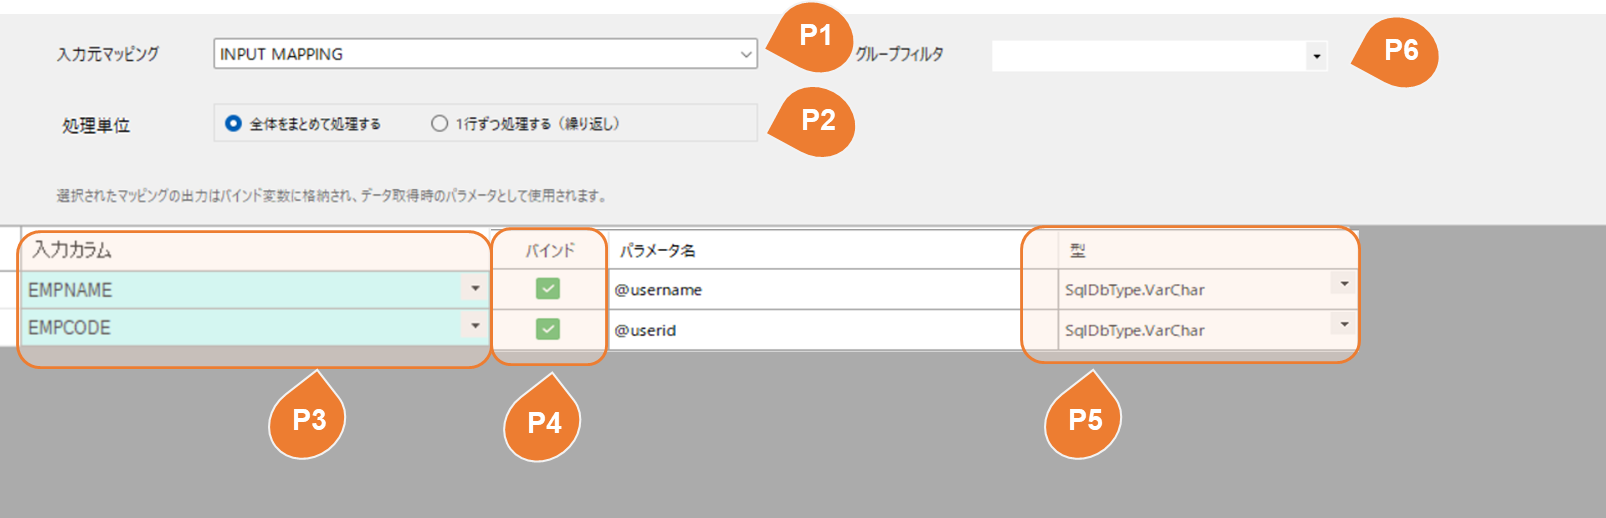
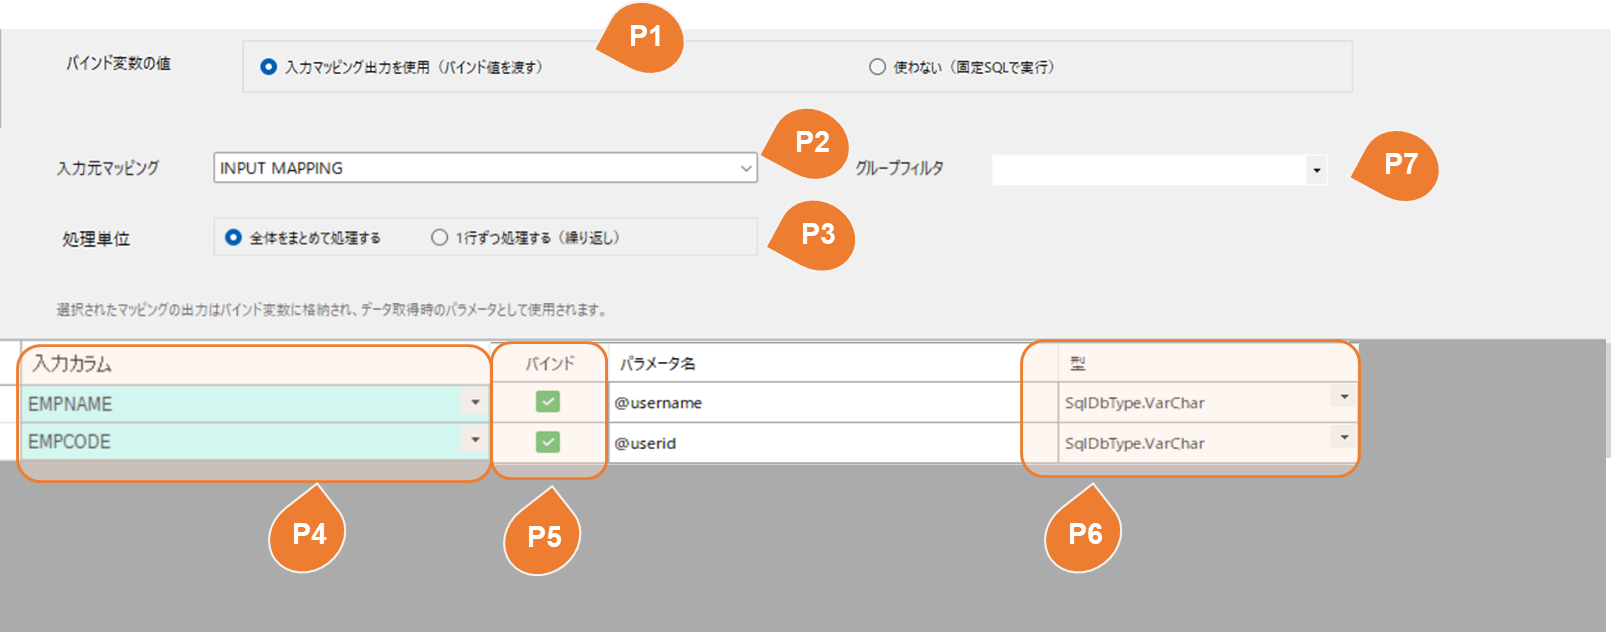
マニュアル微修正

diff --git a/docs/userguide/mappingsource/index.html b/docs/userguide/mappingsource/index.html
@@ -2515,31 +2515,36 @@ UTC 表示がない場合は、接続先データベースの LOCAL 時間とし
 <tbody>
 <tr>
 <td>P1</td>
+<td>バインド変数の値</td>
+<td>バインド変数の値の設定方法を選択します。<br><br><strong>入力マッピング出力を使用（バインド値を渡す）</strong><br>入力元マッピングの結果を使用して、各パラメータに値をバインドします。<br>マッピングで取得した値が、SQLの条件や引数として動的に渡されます。<br><br><strong>使わない（固定SQLで実行）</strong><br>入力マッピングは使用せず、SQLに定義された固定値やDB固有の変数をそのまま使用して実行します。</td>
+</tr>
+<tr>
+<td>P2</td>
 <td>入力元マッピング</td>
 <td>バインド変数の値を取得する入力元のマッピングを選択します。</td>
 </tr>
 <tr>
-<td>P2</td>
+<td>P3</td>
 <td>処理単位</td>
 <td><strong>全体をまとめて処理する</strong> <br>後続処理は1回だけ実行されます。<br>入力マッピングのデータをループして順次データ取得を行い、その結果を一旦ローカルに蓄積します。<br>すべてのデータ取得が完了した後、まとめてターゲットDBの更新やファイル出力などの後続処理を実行します。<br><br><strong>1行ずつ処理する（繰り返し）</strong> <br>後続処理はレコードごとに実行されます。<br>入力マッピングのデータをループし、1行ごとにデータ取得を行い、その都度ターゲットDBの更新やファイル出力などの後続処理を実行します。</td>
 </tr>
 <tr>
-<td>P3</td>
+<td>P4</td>
 <td>入力カラム</td>
 <td>該当パラメータにバインドする値を持つカラムを指定します。</td>
 </tr>
 <tr>
-<td>P4</td>
+<td>P5</td>
 <td>バインド</td>
 <td>当パラメータを入力カラムの値にバインドするかどうかを設定します。  <br >チェックを有効にすると、選択した入力カラムの値がパラメータにバインドされ、データ取得時の条件値や引数として利用されます。<br >  チェックしない場合はバインドされず、DB固有の変数として実行されます。<br ><br >※本項目は <strong>SQL Server を使用している場合のみ選択可能</strong> です。</td>
 </tr>
 <tr>
-<td>P5</td>
+<td>P6</td>
 <td>パラメータ型</td>
 <td>バインド変数のデータ型を設定します。</td>
 </tr>
 <tr>
-<td>P6</td>
+<td>P7</td>
 <td>グループフィルター</td>
 <td>グループフィルターを使用してマッピングを絞り込むことができます。グループフィルターの選択は必須ではありません。</td>
 </tr>

diff --git a/docs/userguide/connectionwebserviceapi/index.html b/docs/userguide/connectionwebserviceapi/index.html
@@ -980,9 +980,9 @@
       <ul class="md-nav__list">
         
           <li class="md-nav__item">
-  <a href="#web-service-api" class="md-nav__link">
+  <a href="#web-serviceapiodata_1" class="md-nav__link">
     <span class="md-ellipsis">
-      Web Service / API
+      WEB Service/API/OData
     </span>
   </a>
   
@@ -2070,9 +2070,9 @@
       <ul class="md-nav__list">
         
           <li class="md-nav__item">
-  <a href="#web-service-api" class="md-nav__link">
+  <a href="#web-serviceapiodata_1" class="md-nav__link">
     <span class="md-ellipsis">
-      Web Service / API
+      WEB Service/API/OData
     </span>
   </a>
   
@@ -2124,7 +2124,7 @@
 <li><del>Digest 認証</del>  （Ver.26.1.2より廃止）</li>
 </ul>
 <h2 id="_2">設定</h2>
-<h3 id="web-service-api">Web Service / API</h3>
+<h3 id="web-serviceapiodata_1">WEB Service/API/OData</h3>
 <div class="admonition note info">
 <p>ロケーションの指定には、WebService / API を選択します。</p>
 </div>

diff --git a/docs/index.html b/docs/index.html
@@ -2187,7 +2187,7 @@
             <span class="brand">SOAP Web Service</span>
           </div>   
           <div class="logo">
-            <img src="/img/icon_odata.png" alt="Salesforce">
+            <img src="/img/icon_odata.png" alt="OData">
             <span class="brand">OData</span>
           </div>  
            <div class="logo">